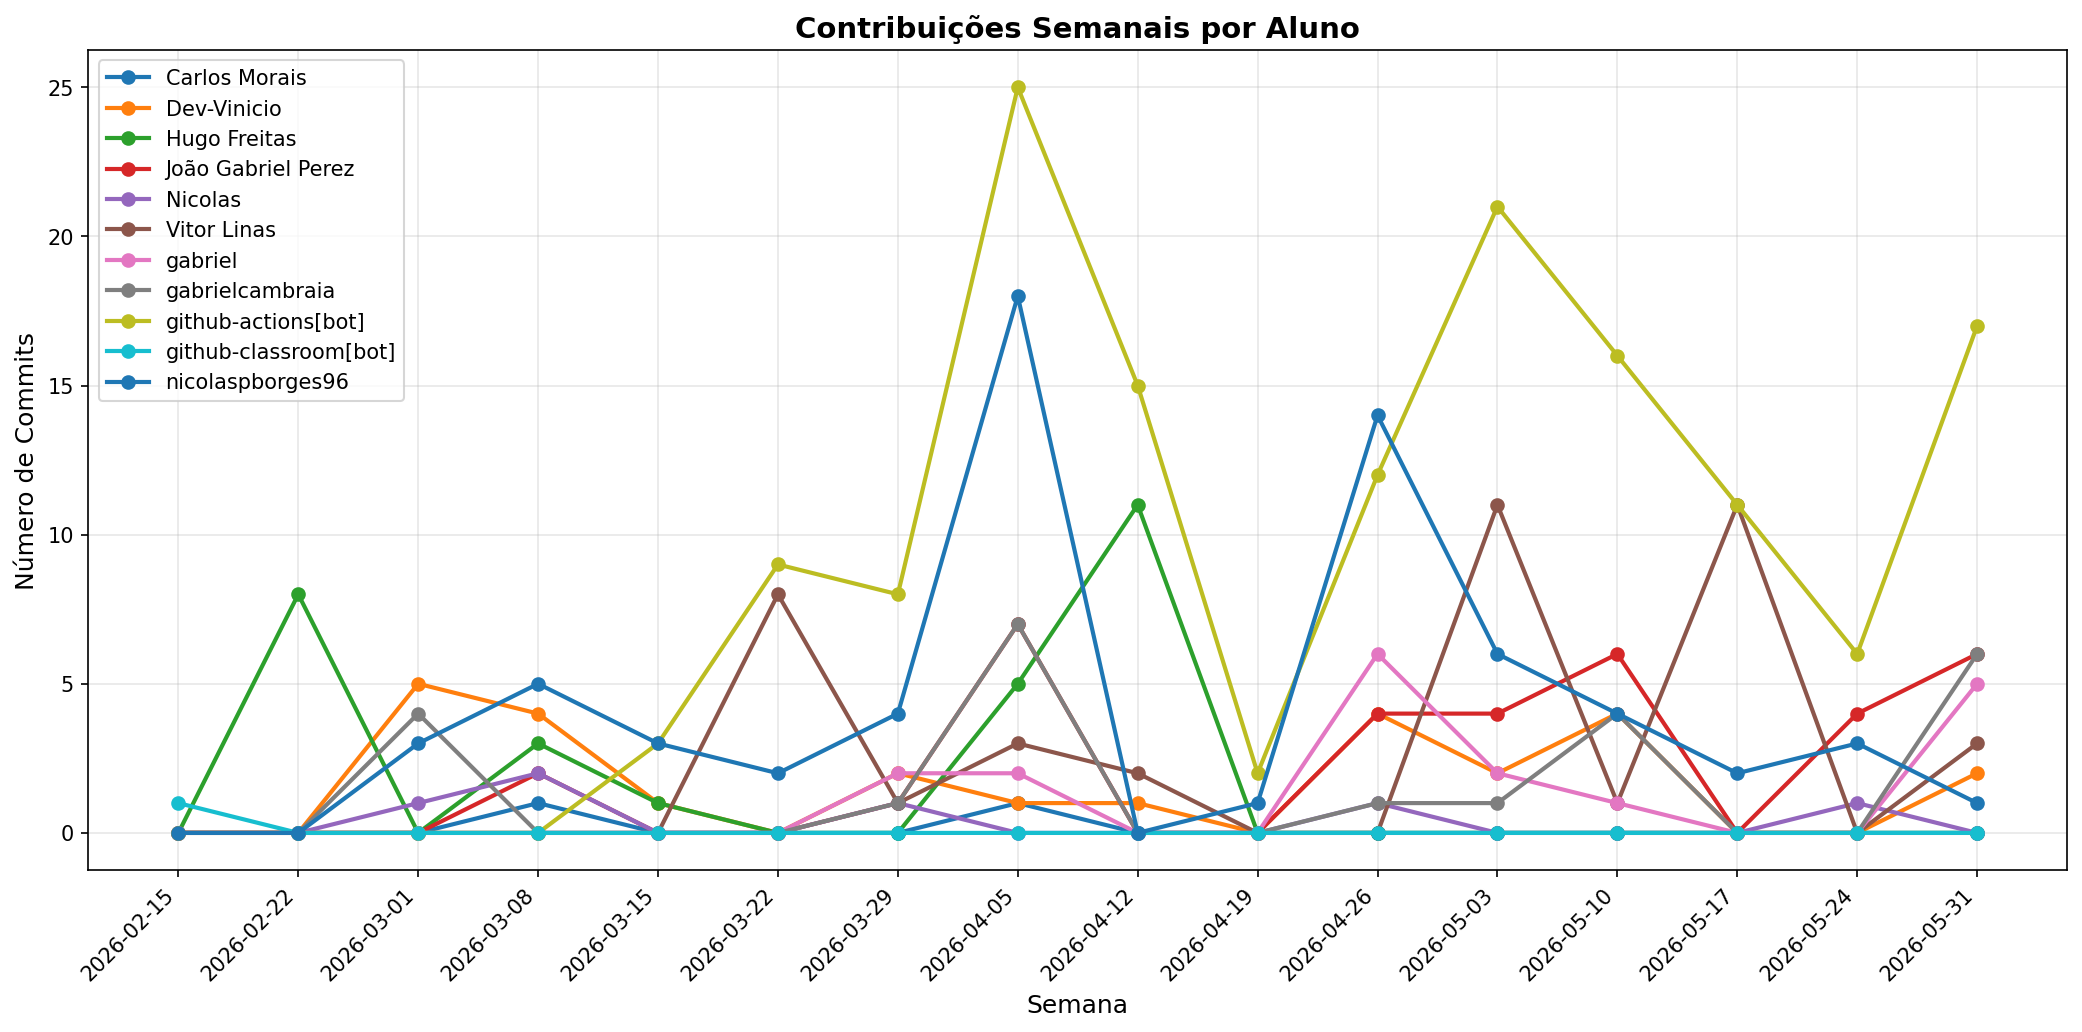
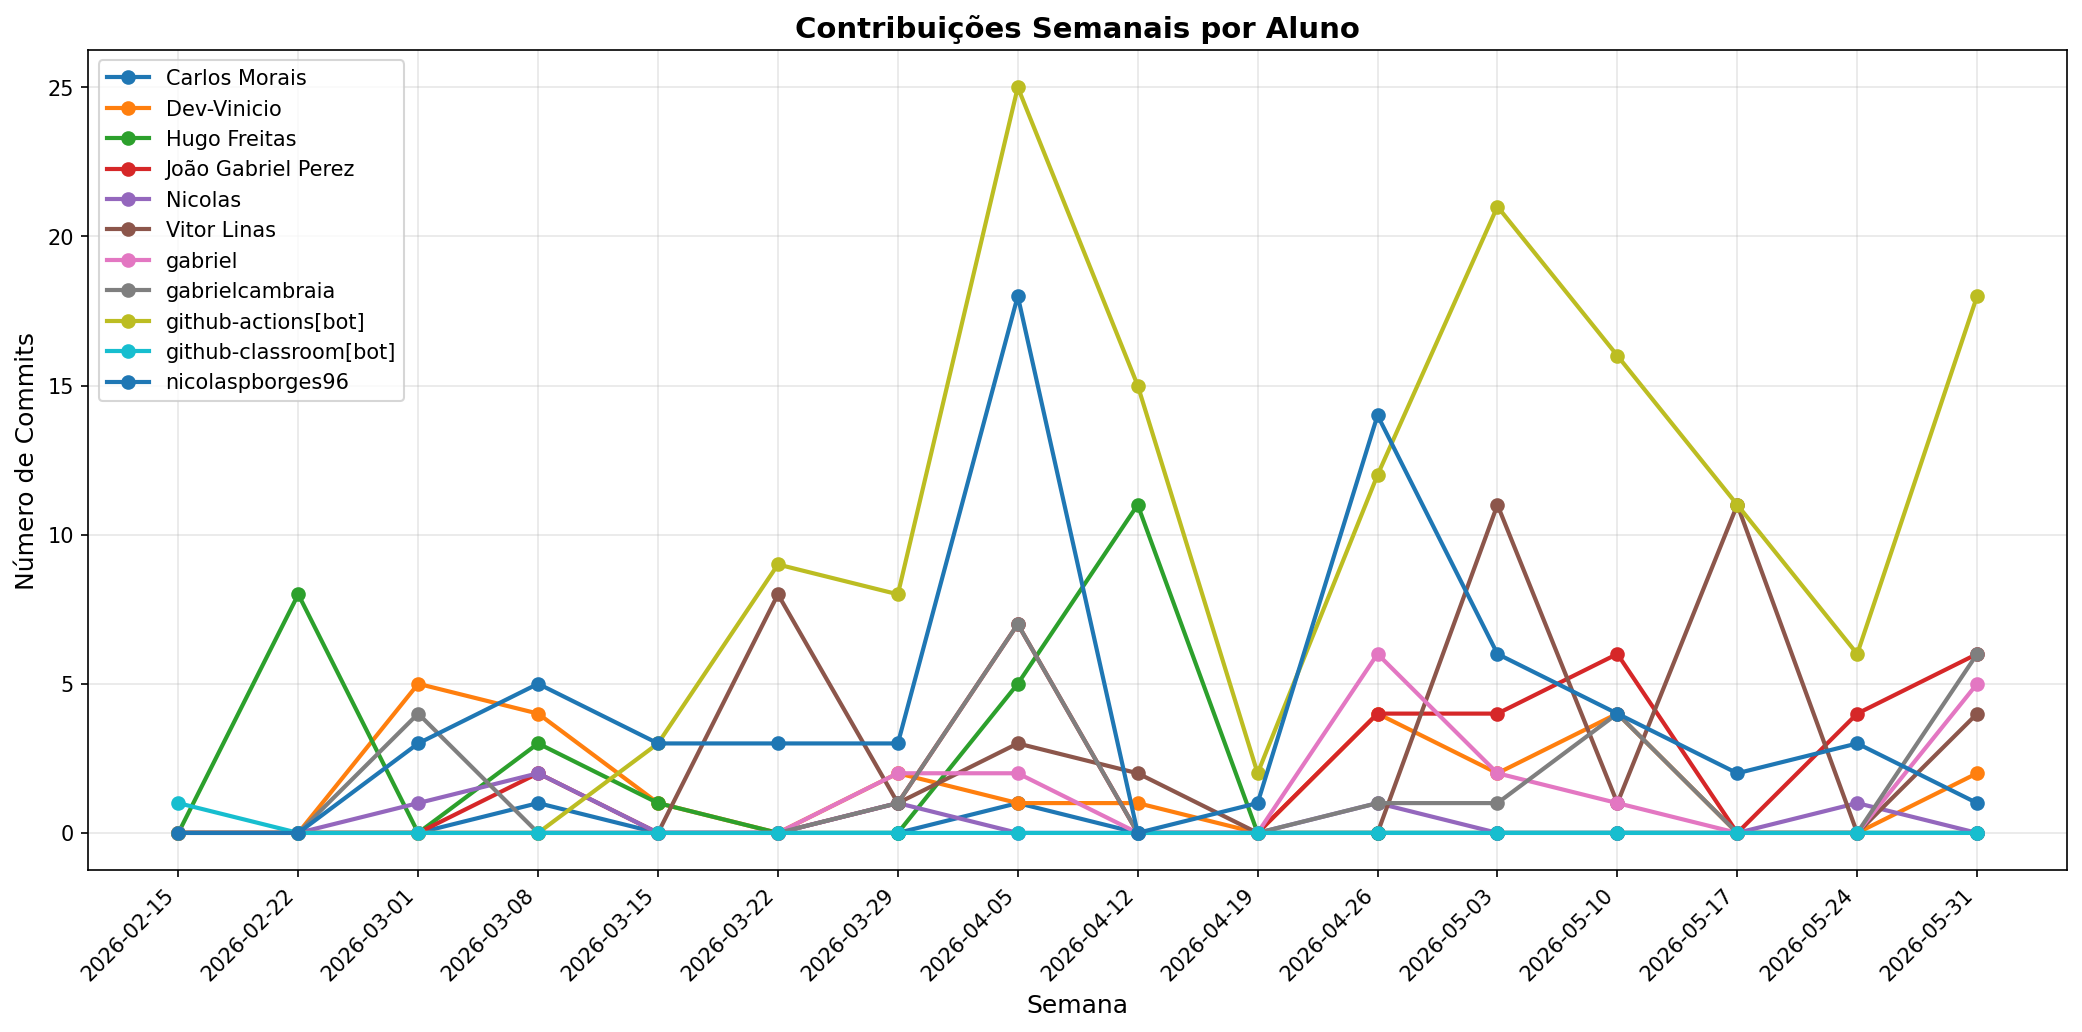
📊 Atualizar relatório de contribuições [skip ci]

diff --git a/docs/CONTRIBUTION_REPORT.md b/docs/CONTRIBUTION_REPORT.md
@@ -1,6 +1,6 @@
 # 📊 Relatório de Contribuições do Projeto
 
-**Última atualização:** 07/06/2026 18:47
+**Última atualização:** 07/06/2026 18:55
 
 ---
 
@@ -13,17 +13,17 @@
 | Hugo Freitas          |        28 |       481 |        90 |         14 |             16 |               6 |
 | João Gabriel Perez    |        34 |      9904 |      2600 |        112 |              7 |               2 |
 | Nicolas               |         6 |      7686 |      1021 |        106 |              2 |               2 |
-| Vitor Linas           |        40 |      1534 |       366 |         20 |             14 |               3 |
+| Vitor Linas           |        41 |      1535 |       367 |         21 |             14 |               3 |
 | gabriel               |        18 |      7120 |      1041 |         90 |              0 |               0 |
 | gabrielcambraia       |        24 |       958 |        56 |          4 |             12 |               3 |
-| github-actions[bot]   |       145 |      1197 |      1172 |          3 |            140 |               1 |
+| github-actions[bot]   |       146 |      1203 |      1178 |          3 |            141 |               1 |
 | github-classroom[bot] |         1 |      2152 |         0 |         45 |              1 |              13 |
 | nicolaspborges96      |        66 |     46492 |     18312 |        319 |             24 |               6 |
 
 
 ## 📅 Contribuições Semanais (Todo o Semestre)
 
-**2026-05-31**: Dev-Vinicio: 2, João Gabriel Perez: 6, Vitor Linas: 3, gabriel: 5, gabrielcambraia: 6, github-actions[bot]: 17, nicolaspborges96: 1
+**2026-05-31**: Dev-Vinicio: 2, João Gabriel Perez: 6, Vitor Linas: 4, gabriel: 5, gabrielcambraia: 6, github-actions[bot]: 18, nicolaspborges96: 1
 
 **2026-05-24**: João Gabriel Perez: 4, Nicolas: 1, github-actions[bot]: 6, nicolaspborges96: 3
 
@@ -41,9 +41,9 @@
 
 **2026-04-05**: Carlos Morais: 1, Dev-Vinicio: 1, Hugo Freitas: 5, João Gabriel Perez: 7, Vitor Linas: 3, gabriel: 2, gabrielcambraia: 7, github-actions[bot]: 25, nicolaspborges96: 18
 
-**2026-03-29**: Dev-Vinicio: 2, João Gabriel Perez: 1, Nicolas: 1, Vitor Linas: 1, gabriel: 2, gabrielcambraia: 1, github-actions[bot]: 8, nicolaspborges96: 4
+**2026-03-29**: Dev-Vinicio: 2, João Gabriel Perez: 1, Nicolas: 1, Vitor Linas: 1, gabriel: 2, gabrielcambraia: 1, github-actions[bot]: 8, nicolaspborges96: 3
 
-**2026-03-22**: Vitor Linas: 8, github-actions[bot]: 9, nicolaspborges96: 2
+**2026-03-22**: Vitor Linas: 8, github-actions[bot]: 9, nicolaspborges96: 3
 
 **2026-03-15**: Dev-Vinicio: 1, Hugo Freitas: 1, github-actions[bot]: 3, nicolaspborges96: 3
 
